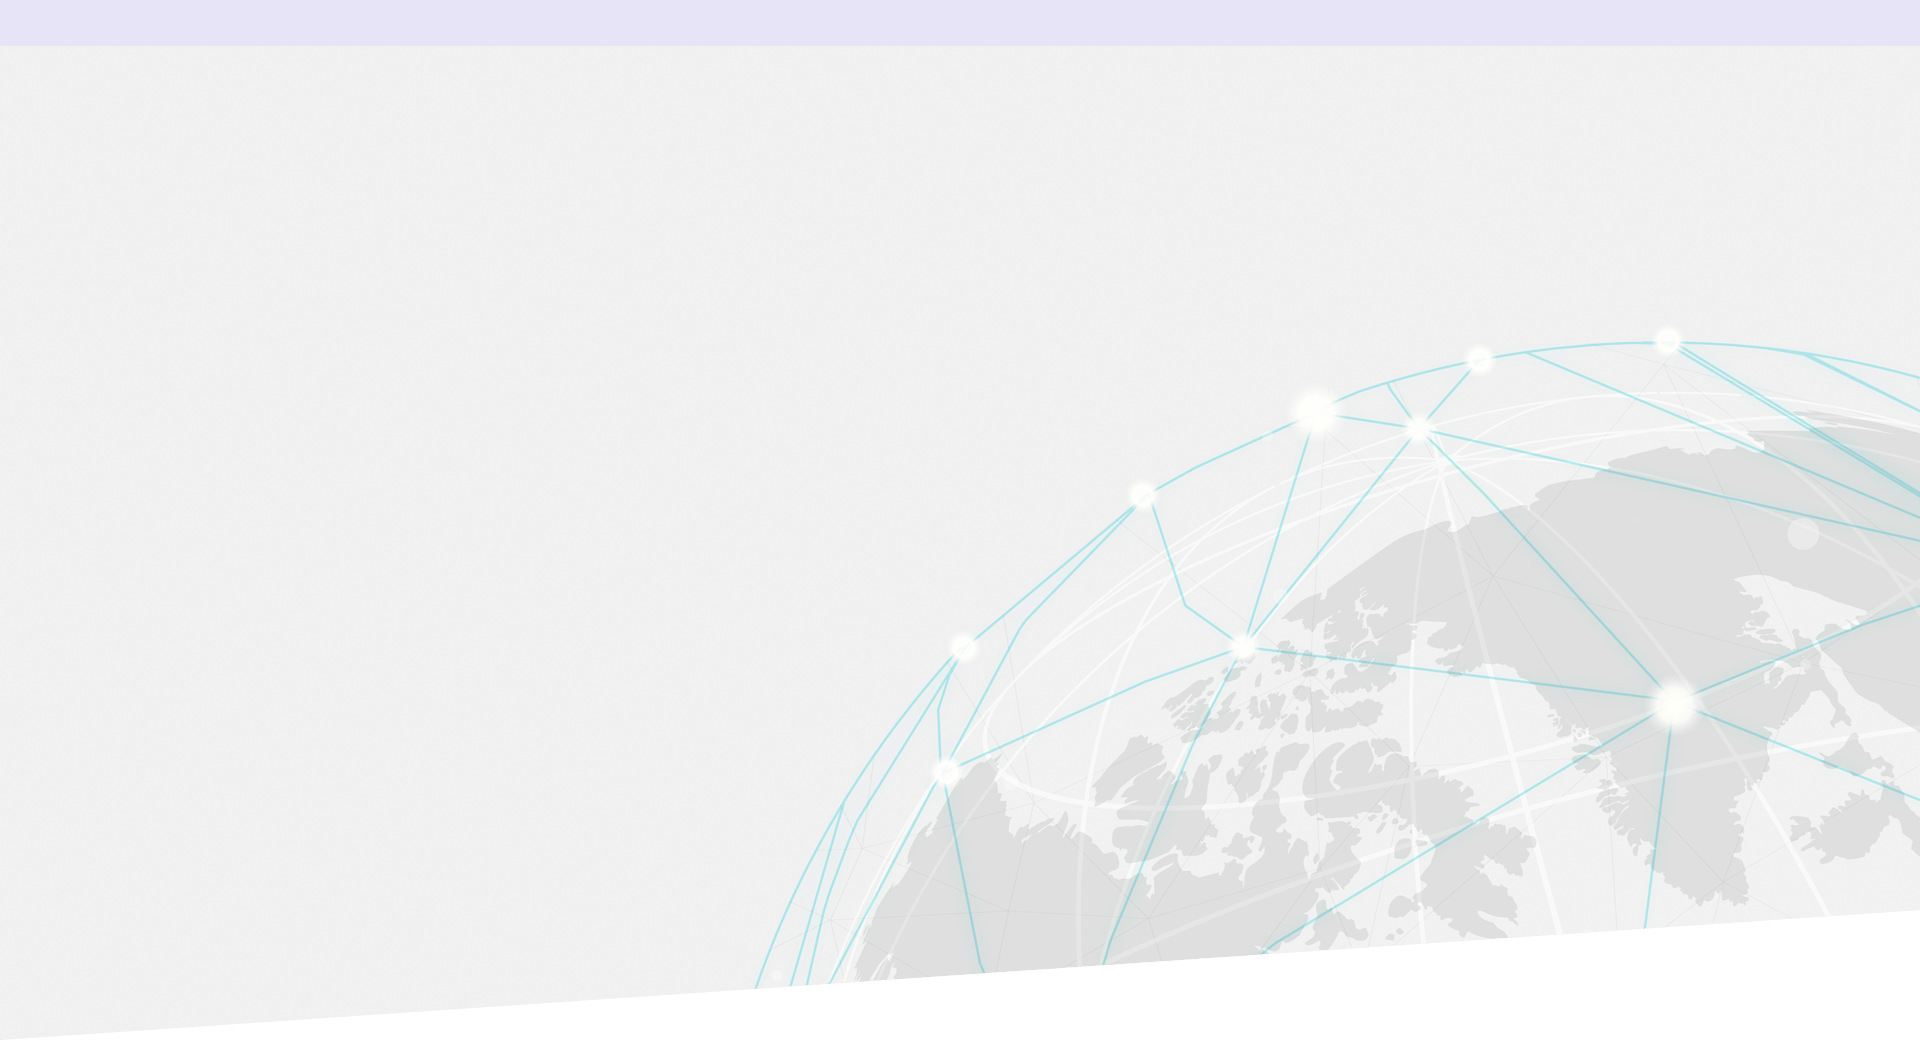
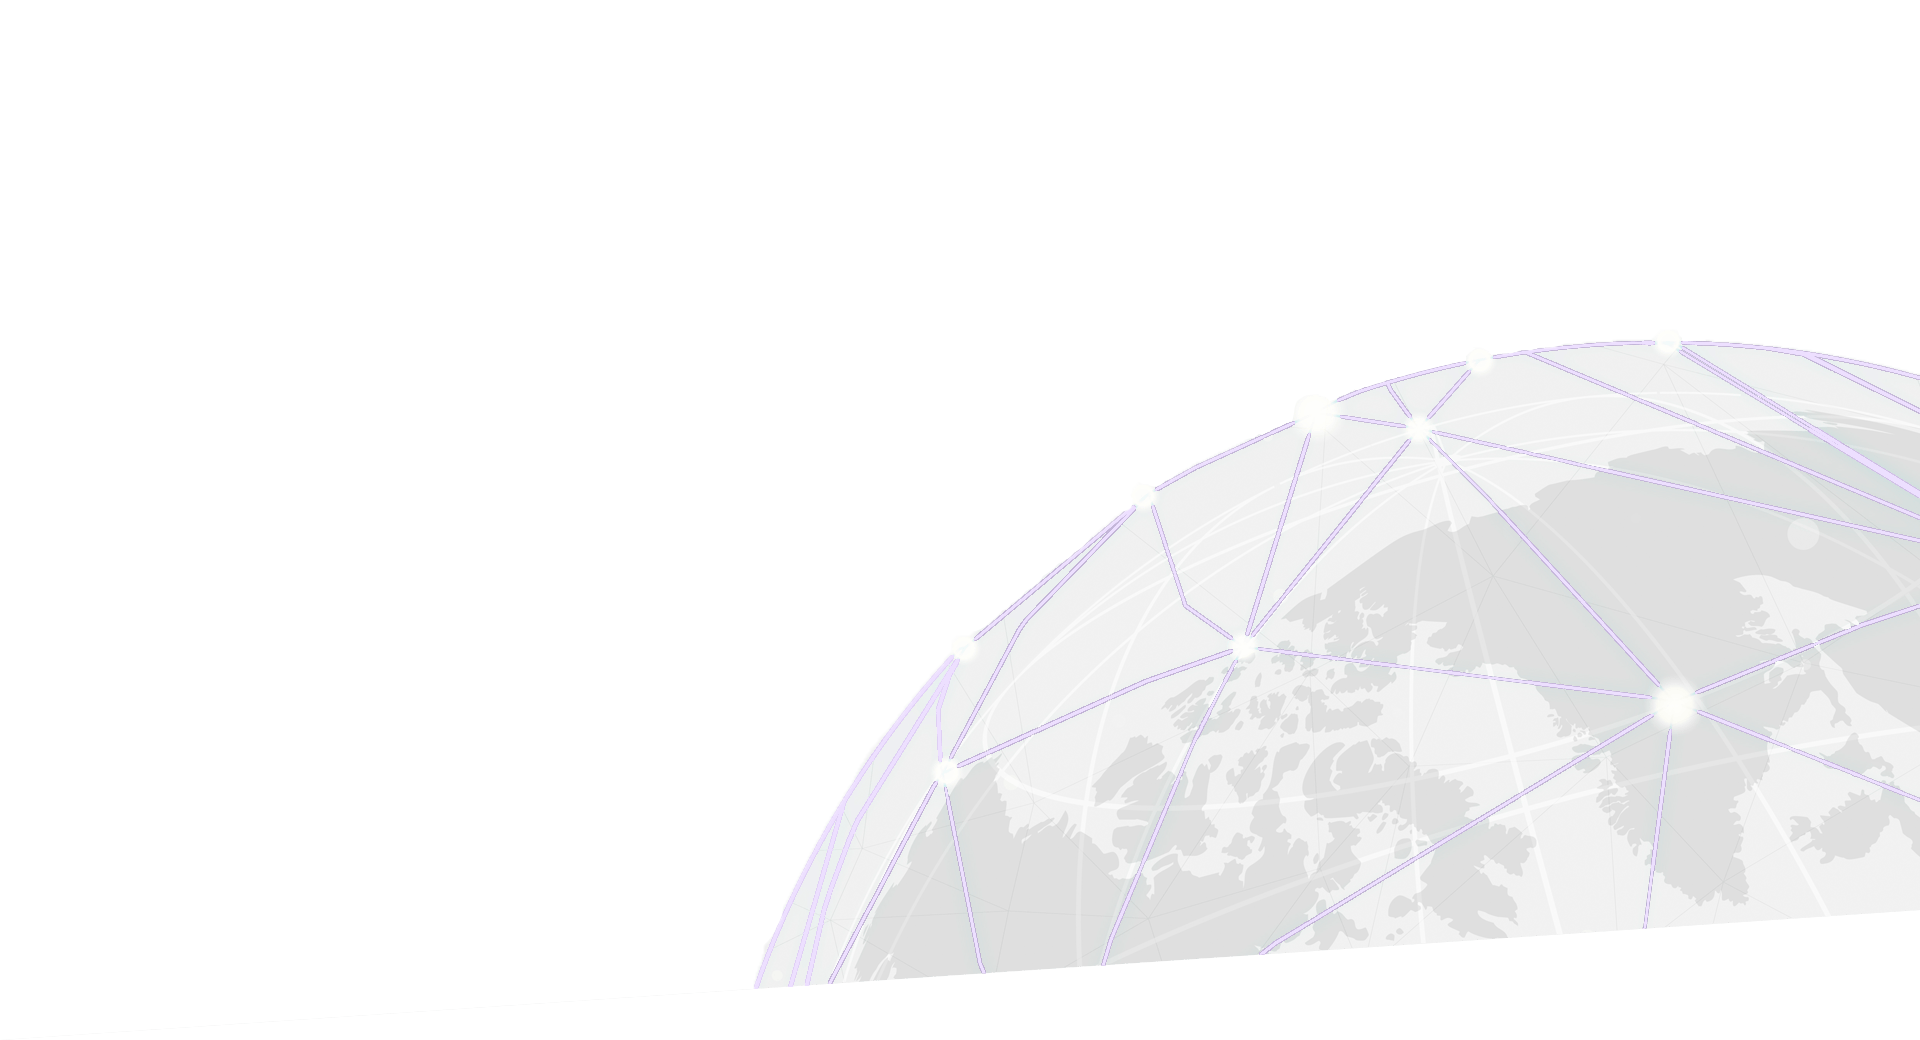
index and service pages modified

diff --git a/index.html b/index.html
@@ -153,7 +153,7 @@
                             <h2 class="title" data-aos="fade-up" data-aos-delay="800">Where Cybersecurity Meets Business Excellence</h2>
                             <p data-aos="fade-up" data-aos-delay="900">We empower your digital defense, ensuring your growth. Our customized solutions and expert support protect your business from evolving cyber threats, ensuring your security and success.</p>
                             <div class="hero-btn" data-aos="fade-up" data-aos-delay="1000">
-                                <a class="btn" href="about.html">Read More</a>
+                                <a class="btn" href="about.html">Know More</a>
                             </div>
                         </div>
                         <!-- Hero Content End -->
@@ -248,10 +248,10 @@
             <div class="container">
                 <div class="cta-wrap">
                     <div class="cta-icon">
-                        <img src="assets/images/cta-icon1.png" alt="">
+                        <img src="assets/images/svg/talktous.svg" alt="" width="48px" height="45px">
                     </div>
                     <div class="cta-content text-center">
-                        <p>Stop leaving your security to chance. <a href="#">Talk to us today</a></p>
+                        <p>Stop leaving your security to chance. <a href="contact.html">Talk to us today</a></p>
                     </div>
                 </div>
             </div>

diff --git a/assets/css/style.css b/assets/css/style.css
@@ -1896,7 +1896,7 @@ textarea:-ms-input-placeholder {
 /*  03 - Hero CSS
 /*----------------------------------------*/
 .techwix-hero-section {
-  background: #f0f0f0;
+  background: #ffffff;
   overflow: hidden;
   position: relative;
   padding-top: 85px;
@@ -5655,7 +5655,7 @@ textarea:-ms-input-placeholder {
   position: absolute;
   left: 0;
   top: 0;
-  background: #7327d4;
+  background: #a77fdd;
   width: 135px;
   height: 135px;
   border-radius: 10px;
